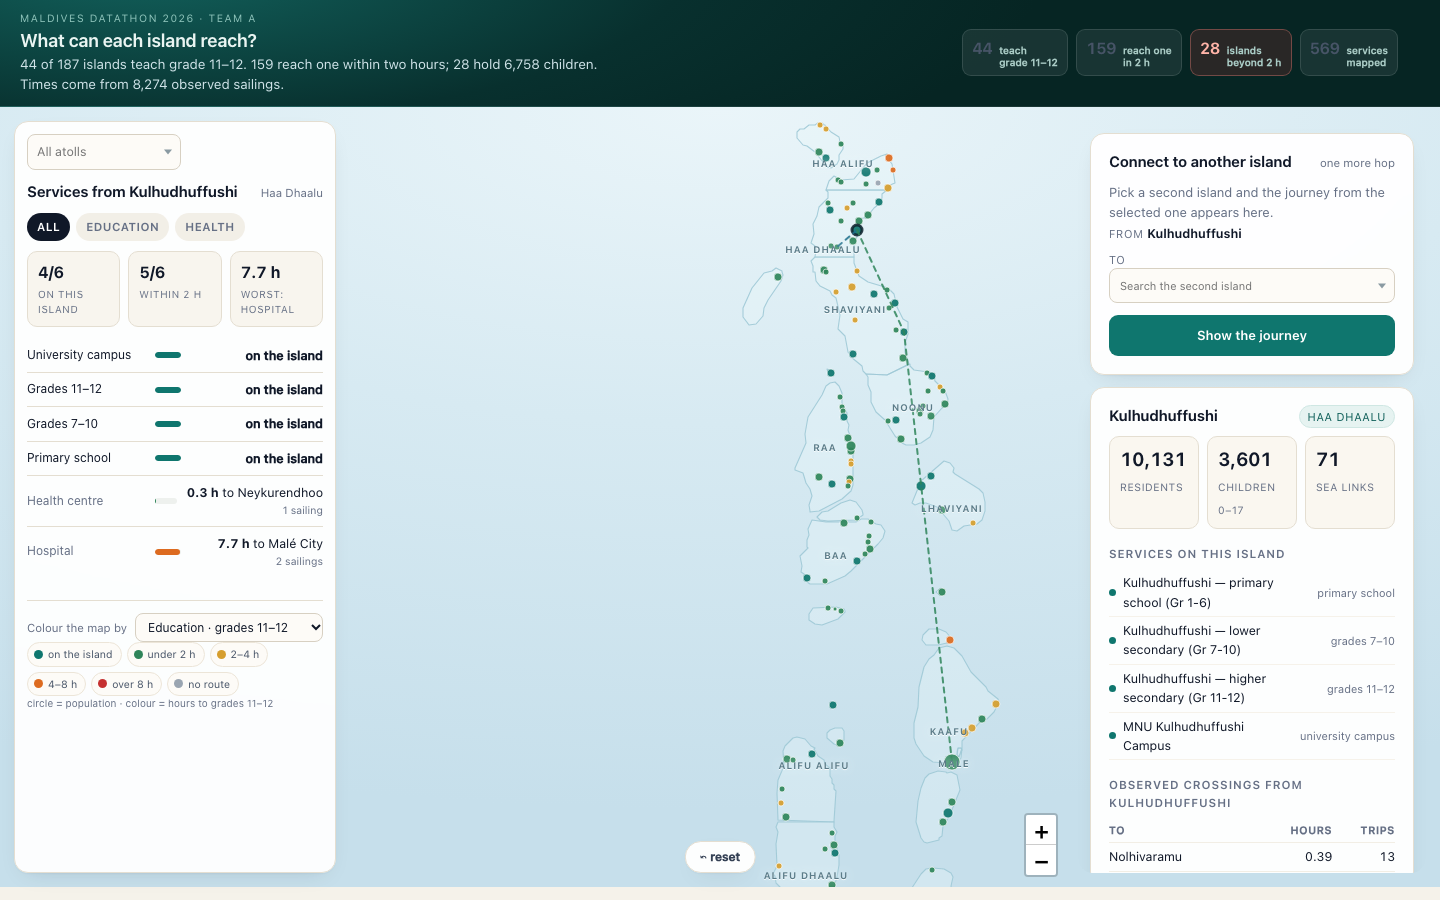
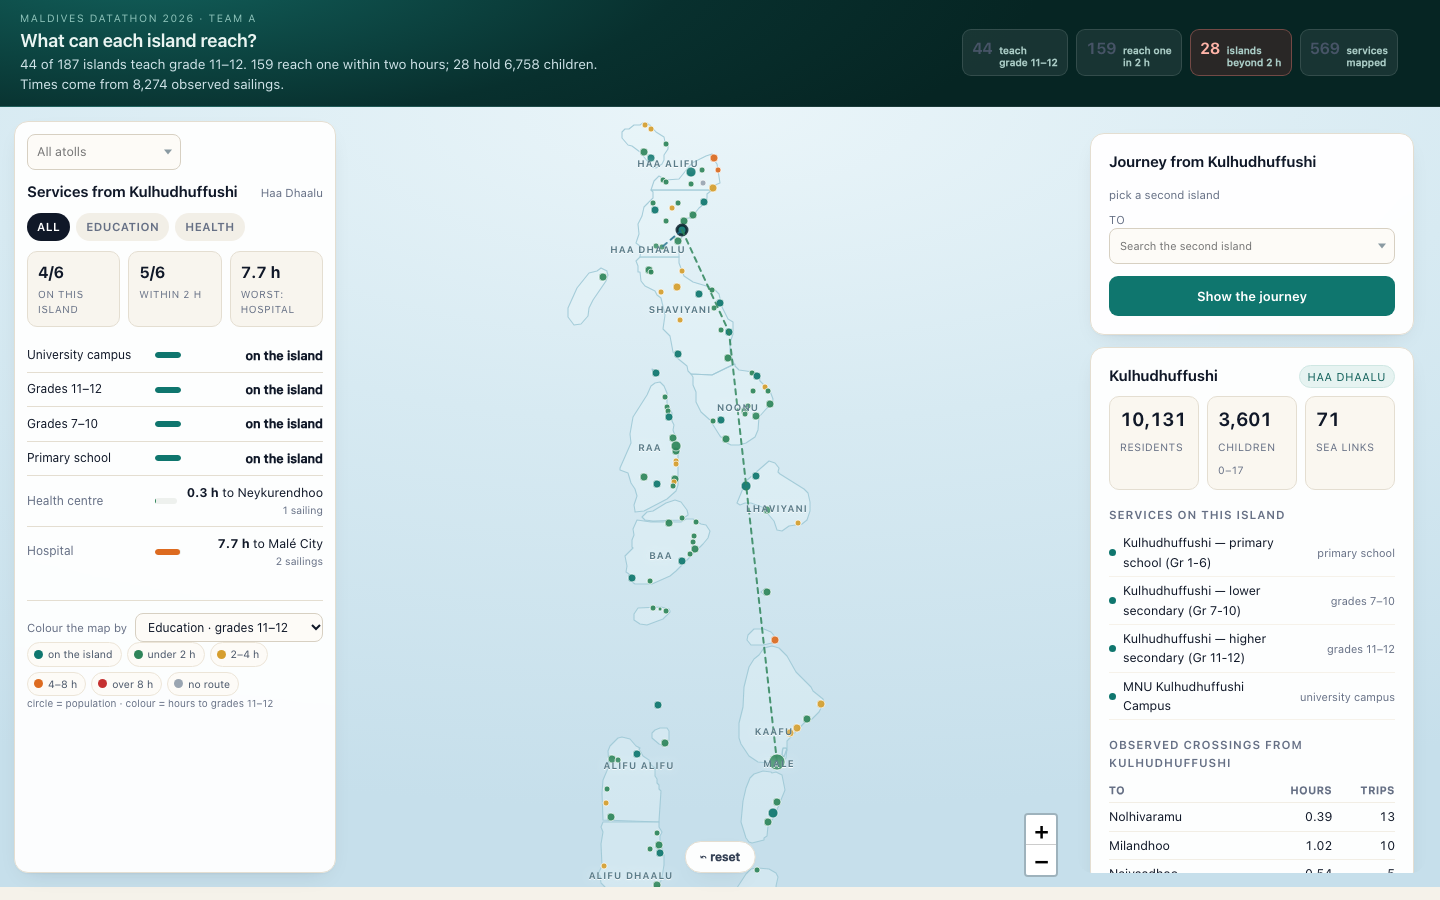
Selected island drives the journey origin; service panel renders on first paint

diff --git a/web/access/templates/access/index.html b/web/access/templates/access/index.html
@@ -35,7 +35,7 @@
       </div>
     </div>
 
-    <div id="connect-out"{% if default_island %} hx-get="/connect/?island={{ default_island }}" hx-trigger="load" hx-swap="innerHTML"{% endif %}></div>
+    <div id="connect-out">{% with c=first_panel.c rows=first_panel.rows category=first_panel.category paths=first_panel.paths local_n=first_panel.local_n within2=first_panel.within2 total_n=first_panel.total_n worst=first_panel.worst cat_label=first_panel.cat_label %}{% include "access/_connect.html" %}{% endwith %}</div>
 
     <div class="mapctl">
       <label class="metricrow" id="metricrow">
@@ -63,14 +63,13 @@
   <aside class="ovl ovl-right">
     <div class="card" id="paircard">
       <div class="cardhead">
-        <h2>Connect to another island</h2>
-        <span class="hint">one more hop</span>
+        <h2>Journey from <span id="fromName">{{ default_from_name }}</span></h2>
+        <span class="hint">pick a second island</span>
       </div>
       <div id="route-out" data-default-to="{{ default_to }}">
-        <p class="empty">Pick a second island and the journey from the selected one appears here.</p>
+
       </div>
-      <p class="fromline">From <b id="fromName">{{ default_from_name }}</b>
-        <input name="from" id="from" type="hidden" value="{{ default_from }}"></p>
+      <input name="from" id="from" type="hidden" value="{{ default_from }}">
       <label class="pickto">To
         <div class="combo" id="toCombo">
           <input id="toText" class="combotext" type="text" value="{{ default_to_name }}"
@@ -333,11 +332,17 @@ fetch("/static/access/islands_points.json").then(r => r.json()).then(pts => {
 
   syncZoom();
   const firstIsland = mapEl.dataset.defaultIsland;
-  if (firstIsland) selectIsland(firstIsland, {fly:false});
+  if (firstIsland) {
+    selectIsland(firstIsland, {fly:false});
+    const p0 = state.byId.get(firstIsland);
+    if (p0) map.setView([p0.lat, p0.lon], 8.5, {animate:false});   // open on the selected island
+  }
   const ro = el("route-out").dataset;
   const qp2 = new URLSearchParams(location.search);
   if (qp2.get("to")) { setPicker("to", qp2.get("to")); submitRoute(); }
   // share a view: ?lat=6.15&lon=73.28&z=9 opens the map at that spot, even after the demo route
+  drawConnect();          // the panel is in the first paint; draw its journeys straight away
+  frameConnect();
   if (VIEW) { pendingView = VIEW; map.setView([VIEW.lat, VIEW.lon], VIEW.z, {animate:false}); }
 });
 
@@ -486,6 +491,16 @@ el("routeBtn").addEventListener("click", submitRoute);
 function clearConnect() {
   if (state.connectLayer) { map.removeLayer(state.connectLayer); state.connectLayer = null; }
 }
+// frame the selected island together with the provider islands it can reach
+function frameConnect() {
+  const pts = state.connectPts || [];
+  if (!pts.length) return;
+  const b = L.latLngBounds(pts);
+  map.fitBounds(b, isWide()
+    ? {paddingTopLeft:[Math.min(340, map.getSize().x * 0.26), 70], paddingBottomRight:[Math.min(340, map.getSize().x * 0.26), 70], maxZoom:9.5}
+    : {padding:[40, 40], maxZoom:9.5});
+}
+
 function drawConnect() {
   clearConnect();
   const node = document.querySelector("#connect-out [data-paths]");
@@ -501,11 +516,8 @@ function drawConnect() {
   });
   state.connectLayer = layer.addTo(map);
   const pts = groups.flat();
-  if (pts.length) {
-    map.fitBounds(L.latLngBounds(pts), isWide()
-      ? {paddingTopLeft:[420, 70], paddingBottomRight:[70, 70], maxZoom:9}
-      : {padding:[40, 40], maxZoom:9});
-  }
+  state.connectPts = pts;
+  frameConnect();
 }
 
 // the ranked table is swapped by htmx, so its picker is rebuilt after every swap

diff --git a/web/access/views.py b/web/access/views.py
@@ -66,6 +66,7 @@ SERVICE_LABEL = {
 def index(request):
     m = model()
     rows = m.ranked(limit=12)
+    island = request.GET.get("island", "MV002012")
     return render(request, "access/index.html", {
         "s": m.stats(),
         "islands": m.picker,
@@ -73,9 +74,9 @@ def index(request):
         "rows": rows,
         "gaps": m.gaps,
         "manifest": _manifest(),
-        "default_from": "MV002012",   # Kulhudhuffushi: the demo journey that works
+        "default_from": island,
         "default_to": "",
-        "default_from_name": "Kulhudhuffushi",
+        "default_from_name": m.name_of(island),
         "default_to_name": "",
         "default_island": request.GET.get("island", "MV002012"),
         "n_rows": len(m.inhabited),
@@ -92,6 +93,8 @@ def index(request):
         "worst_h": "%.1f h" % float(m.inhabited.hours_to_hs.max()),
         "sel_atoll": "",
         "sel_band": "",
+        # the island → service panel is in the first HTML paint, not only after an htmx call
+        "first_panel": connect_context(m, island),
     })
 
 
@@ -113,18 +116,11 @@ TYPE_LABEL = {
 }
 
 
-@require_GET
-def connect(request):
-    """Island to service: every service type, where the nearest one is, and how you get there."""
-    m = model()
-    node = request.GET.get("island", "").strip()
-    if not node:
-        node = m.inhabited.sort_values("population", ascending=False).iloc[0].node_id
+def connect_context(m, node: str, category: str = "") -> dict:
+    """Everything the island → service panel needs, for one island and one category."""
     card = m.card(node)
     if card is None:
         raise Http404(f"unknown island: {node}")
-    category = request.GET.get("category", "").strip()
-
     rows, paths = [], []
     for svc_type, a in card["access"].items():
         if category and a["category"] != category:
@@ -159,13 +155,24 @@ def connect(request):
     far = [r for r in rows if r["hours"] is not None]
     worst = max(far, key=lambda r: r["hours"]) if far else None
 
-    return render(request, "access/_connect.html", {
+    return {
         "c": card, "rows": rows, "category": category,
         "paths": json.dumps(paths),
         "local_n": local_n, "within2": within2, "total_n": len(rows),
         "worst": worst, "categories": ["education", "health"],
         "cat_label": {"education": "Education", "health": "Health"},
-    })
+    }
+
+
+@require_GET
+def connect(request):
+    """Island to service: every service type, where the nearest one is, and how you get there."""
+    m = model()
+    node = request.GET.get("island", "").strip()
+    if not node:
+        node = m.inhabited.sort_values("population", ascending=False).iloc[0].node_id
+    return render(request, "access/_connect.html",
+                  connect_context(m, node, request.GET.get("category", "").strip()))
 
 
 @require_GET
